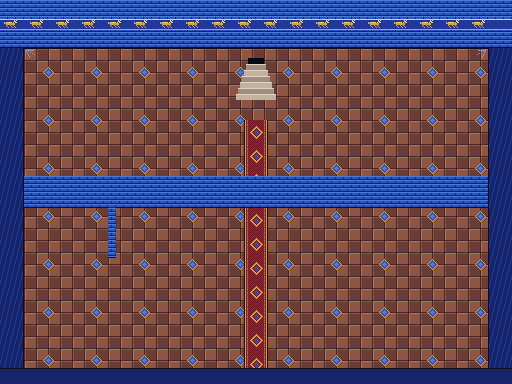
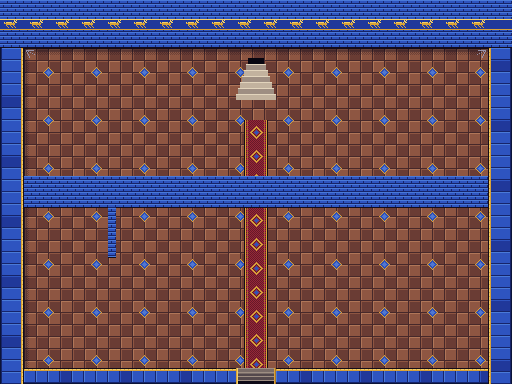
The summit is open to the sky: parapets, a long drop to the sleeping city's embers; dungeon rooms get real wall tops, cast shadows and stairways out

Changed region(s): [[0.0, 0.125, 1.0, 1.0]]

diff --git a/Art/pixel/temple_maps.py b/Art/pixel/temple_maps.py
@@ -109,21 +109,22 @@ def temple_yard():
 
 
 # ------------------------------------------------------------------ inside
-def room(m, W, H, wall_h=48, seed=80):
+def room(m, W, H, wall_h=48, seed=80, door=True):
     g = m.ground
     G.tile_floor(g, 0, 0, W, H, seed=seed)
     G.floor_inlays(g, 24, wall_h, W - 48, H - wall_h - 16)
     G.glazed_wall(g, 0, 0, W, wall_h, seed=seed)
     for x in range(0, W):
         g.px(x, wall_h, OUTLINE)
-    # side walls: thick, seen from above
-    for (x0, x1) in ((0, 24), (W - 24, W)):
-        for y in range(wall_h, H):
-            for x in range(x0, x1):
-                g.px(x, y, R['glaze'][1] if (x + y // 4) % 5 else R['glaze'][2])
-        g.vline(x1 - 1 if x0 == 0 else x0, wall_h, H - 1, OUTLINE)
-    g.rect(0, H - 16, W, 16, R['glaze'][1])
-    g.hline(0, W - 1, H - 16, OUTLINE)
+    # the north and west walls throw shade across the floor
+    G.floor_shadow(g, 24, wall_h + 1, W - 48, 6, 'y+')
+    G.floor_shadow(g, 24, wall_h + 1, 5, H - wall_h - 17, 'x+')
+    # thick walls seen from above: capstones, gold coping on the inner edge
+    G.wall_top(g, 0, wall_h, 24, H - wall_h, inner='right', seed=seed + 1)
+    G.wall_top(g, W - 24, wall_h, 24, H - wall_h, inner='left', seed=seed + 2)
+    G.wall_top(g, 24, H - 16, W - 48, 16, inner='up', seed=seed + 3)
+    if door:
+        G.doorway(g, W // 2, H, 40, 16)
     m.solid(0, 0, W, wall_h - 4); m.solid(0, 0, 24, H); m.solid(W - 24, 0, W, H); m.solid(0, H - 14, W // 2 - 20, H); m.solid(W // 2 + 20, H - 14, W, H)
 
 
@@ -216,21 +217,48 @@ def zig_2():
 
 
 def zig_3():
+    """The summit: an open platform at the top of the ziggurat, the sanctuary wall behind the
+    sleeping god, low parapets on three sides and beyond them a long drop into the night, the
+    city a scatter of embers far below."""
     TW, TH = 30, 24
     W, H = TW * 16, TH * 16
     m = MapBuilder("zig_3", TW, TH, R['brick'][2], music="summit")
-    room(m, W, H, wall_h=64, seed=101)
     g = m.ground
-    G.carpet(g, W // 2 - 12, 262, 24, H - 278)
-    # the summit floor, the altar, the god's bed beyond it
-    A.slabs(g, 24, 64, W - 48, 70, R['lime'], 16, 12, seed=102)
+    E, wall_h, P = 40, 64, 12          # drop beyond the edge, sanctuary wall height, parapet thickness
+    G.night_drop(g, 0, 0, W, H, seed=111)
+    # the platform
+    A.slabs(g, E, wall_h, W - 2 * E, H - wall_h - 24, R['lime'], 16, 12, seed=102)
+    G.glazed_wall(g, E, 0, W - 2 * E, wall_h, seed=101)
+    for x in range(E, W - E):
+        g.px(x, wall_h, OUTLINE)
+    G.floor_shadow(g, E + P, wall_h + 1, W - 2 * E - 2 * P, 6, 'y+')
+    G.floor_shadow(g, E + P, wall_h + 1, 4, H - wall_h - 24 - P - 1, 'x+')
+    G.carpet(g, W // 2 - 12, 262, 24, H - 262 - 24)
     A.sigil(g, W // 2, 230, 26)
+    # parapets, crenellated against the sky
+    G.wall_top(g, E, wall_h, P, H - wall_h - 24, inner='right', seed=103, merlons=True)
+    G.wall_top(g, W - E - P, wall_h, P, H - wall_h - 24, inner='left', seed=104, merlons=True)
+    G.wall_top(g, E + P, H - 24 - P, W // 2 - 20 - E - P, P, inner='up', seed=105, merlons=True)
+    G.wall_top(g, W // 2 + 20, H - 24 - P, W // 2 - 20 - E - P, P, inner='up', seed=106, merlons=True)
+    # the stair down through the gap, falling away into the dark
+    lime = R['lime']; gd = R['gold']
+    for k in range(H - 24 - P, H):
+        t = (k - (H - 24 - P)) / (24 + P)
+        c = lime[3] if (k - (H - 24 - P)) % 4 == 0 else lime[2] if t < 0.45 else lime[1] if t < 0.8 else (14, 10, 24, 255)
+        g.hline(W // 2 - 18, W // 2 + 17, k, c)
+    for sx in (W // 2 - 20, W // 2 + 18):
+        g.vline(sx, H - 24 - P, H - 1, gd[3]); g.vline(sx + 1, H - 24 - P, H - 1, gd[4] if sx < W // 2 else gd[2])
+    # nothing walks off the summit
+    m.solid(0, 0, W, wall_h - 4)
+    m.solid(0, 0, E + P - 2, H); m.solid(W - E - P + 2, 0, W, H)
+    m.solid(0, H - 24 - P + 2, W // 2 - 20, H); m.solid(W // 2 + 20, H - 24 - P + 2, W, H)
     m.marker("god", W // 2 - 10, 126)
     m.marker("altar", W // 2 + 64, 132)
     m.marker("boss", W // 2, 212)
-    for (x, y) in ((110, 190), (W - 110, 190), (110, 300), (W - 110, 300)):
+    for (x, y) in ((118, 190), (W - 118, 190), (118, 300), (W - 118, 300)):
         m.prop("pillar", lambda cv, ax, ay, fi: G.pillar(cv, ax, ay), x, y, box=(-7, -5, 7, 0), size=(24, 48), pad=4, kind="pillar")
-    torches(m, ((60, 150), (W - 60, 150), (60, 330), (W - 60, 330)))
+    torches(m, ((72, 150), (W - 72, 150), (72, 318), (W - 72, 318)))
+    m.light(W // 2, 120, 7.0, (0.62, 0.70, 1.0), 0.45, flicker=False)
     m.spawn("south", W // 2, H - 26, "up")
     m.exit(W // 2 - 20, H - 8, W // 2 + 20, H, "zig_2", "top")
     m.save()

diff --git a/Art/pixel/region_art.py b/Art/pixel/region_art.py
@@ -601,3 +601,97 @@ def cobweb(cv, x, y, flip=False):
         cv.px(xx if not flip else xx, y, c) if k < 8 else None
     for k in range(8):
         cv.px(x - k // 2 if flip else x + k // 2, y + k, c)
+
+
+# ------------------------------------------------------------------ thick walls, doorways, the summit
+def floor_shadow(cv, x0, y0, w, h, fade='x+', strength=110):
+    """A soft shadow cast onto the floor by a wall: solid near the wall, dithered as it fades."""
+    for y in range(y0, y0 + h):
+        for x in range(x0, x0 + w):
+            if fade == 'x+':
+                k = (x - x0) / max(1, w)
+            elif fade == 'x-':
+                k = (x0 + w - 1 - x) / max(1, w)
+            else:
+                k = (y - y0) / max(1, h)
+            if k < 0.45 or (k < 0.85 and (x + y) % 2 == 0):
+                cv.px(x, y, (8, 6, 26, int(strength * (1 - k * 0.6))))
+
+
+def wall_top(cv, x0, y0, w, h, inner='right', seed=70, merlons=False):
+    """The top of a thick glazed-brick wall seen from above: capstones with a lit bevel, a gold
+    coping line along the edge that faces the room, a dark outer lip. merlons=True cuts
+    crenellations into the outer edge (for a parapet open to the sky)."""
+    gl = R['glaze']; gd = R['gold']
+    rng = np.random.default_rng(seed)
+    vertical = inner in ('right', 'left')
+    L = h if vertical else w            # length along the wall
+    T = w if vertical else h            # thickness across it
+    stone = 12
+    for a in range(L):
+        blk = a // stone
+        la = a % stone
+        shade = 3 if (blk * 7 + seed) % 5 else 2
+        for b in range(T):
+            # b = 0 at the outer edge, T-1 at the edge facing the room
+            if vertical:
+                x = x0 + (b if inner == 'right' else T - 1 - b); y = y0 + a
+            else:
+                x = x0 + a; y = y0 + (b if inner == 'down' else T - 1 - b)
+            c = gl[shade]
+            if la == 0:
+                c = gl[min(5, shade + 1)]
+            elif la == stone - 1:
+                c = gl[1]
+            if b <= 1:
+                c = gl[0] if b == 0 else gl[1]
+            elif b == T - 3:
+                c = gd[3]
+            elif b == T - 2:
+                c = gd[4] if la % 4 else gd[3]
+            elif b == T - 1:
+                c = OUTLINE
+            if merlons and b <= 3 and (a // 8) % 2 == 1:
+                c = None                    # gap between merlons: the void shows through
+            if c is not None:
+                cv.px(x, y, c)
+
+
+def doorway(cv, cx, by, w=40, h=16, down=True):
+    """An opening in the front wall with steps going down into the dark, framed in gold."""
+    gd = R['gold']; lime = R['lime']
+    x0 = cx - w // 2
+    for k in range(h):
+        y = by - h + k
+        t = k / max(1, h - 1)
+        c = lime[3] if k % 4 == 0 else lime[2] if t < 0.4 else lime[1] if t < 0.75 else (14, 10, 24, 255)
+        cv.hline(x0 + 2, x0 + w - 3, y, c)
+    for s in (x0, x0 + w - 2):
+        cv.vline(s, by - h, by - 1, gd[3]); cv.vline(s + 1, by - h, by - 1, gd[4] if s == x0 else gd[2])
+
+
+def night_drop(cv, x0, y0, w, h, seed=110):
+    """What you see over the parapet at the top of the ziggurat: a long fall into the night,
+    the sleeping city a scatter of embers far below, wisps of mist drifting between."""
+    rng = np.random.default_rng(seed)
+    top = np.array([12, 16, 40]); bot = np.array([5, 6, 16])
+    for y in range(y0, y0 + h):
+        t = (y - y0) / max(1, h - 1)
+        base = (top * (1 - t) + bot * t).astype(int)
+        for x in range(x0, x0 + w):
+            cv.px(x, y, (*base, 255))
+    # mist bands, dithered
+    for _ in range(int(w * h / 900)):
+        mx, my = int(rng.integers(x0, x0 + w)), int(rng.integers(y0, y0 + h))
+        L = int(rng.integers(10, 30))
+        for k in range(L):
+            if (mx + k + my) % 2 == 0:
+                cv.px(mx + k, my, (34, 40, 74, 255))
+    # the city's lamps and banked fires, far below
+    for _ in range(int(w * h / 260)):
+        lx, ly = int(rng.integers(x0, x0 + w)), int(rng.integers(y0, y0 + h))
+        warm = rng.random()
+        c = (255, 176, 84, 255) if warm > 0.35 else (190, 120, 70, 255)
+        cv.px(lx, ly, c)
+        if warm > 0.9:
+            cv.px(lx + 1, ly, (150, 90, 52, 255))

diff --git a/Assets/Wakefire/Scripts/Test/BossTest.cs b/Assets/Wakefire/Scripts/Test/BossTest.cs
@@ -21,8 +21,12 @@ namespace Wakefire
             Story.I.ApplyItems();
             Fade.Set(0);
             var p = Player.I;
-            p.health.max = p.health.hp = 400;
             yield return new WaitForSeconds(0.6f);
+            PixelView.I.target = null;
+            PixelView.I.SnapTo(Map.ToWorld(240, 150));
+            yield return t.Shot("b0-summit", 0.8f);
+            PixelView.I.target = p.transform;
+            p.health.max = p.health.hp = 400;
             // walk in until the bull wakes
             float t0 = Time.time;
             while (!BrazenBull.I && Time.time - t0 < 30f)
